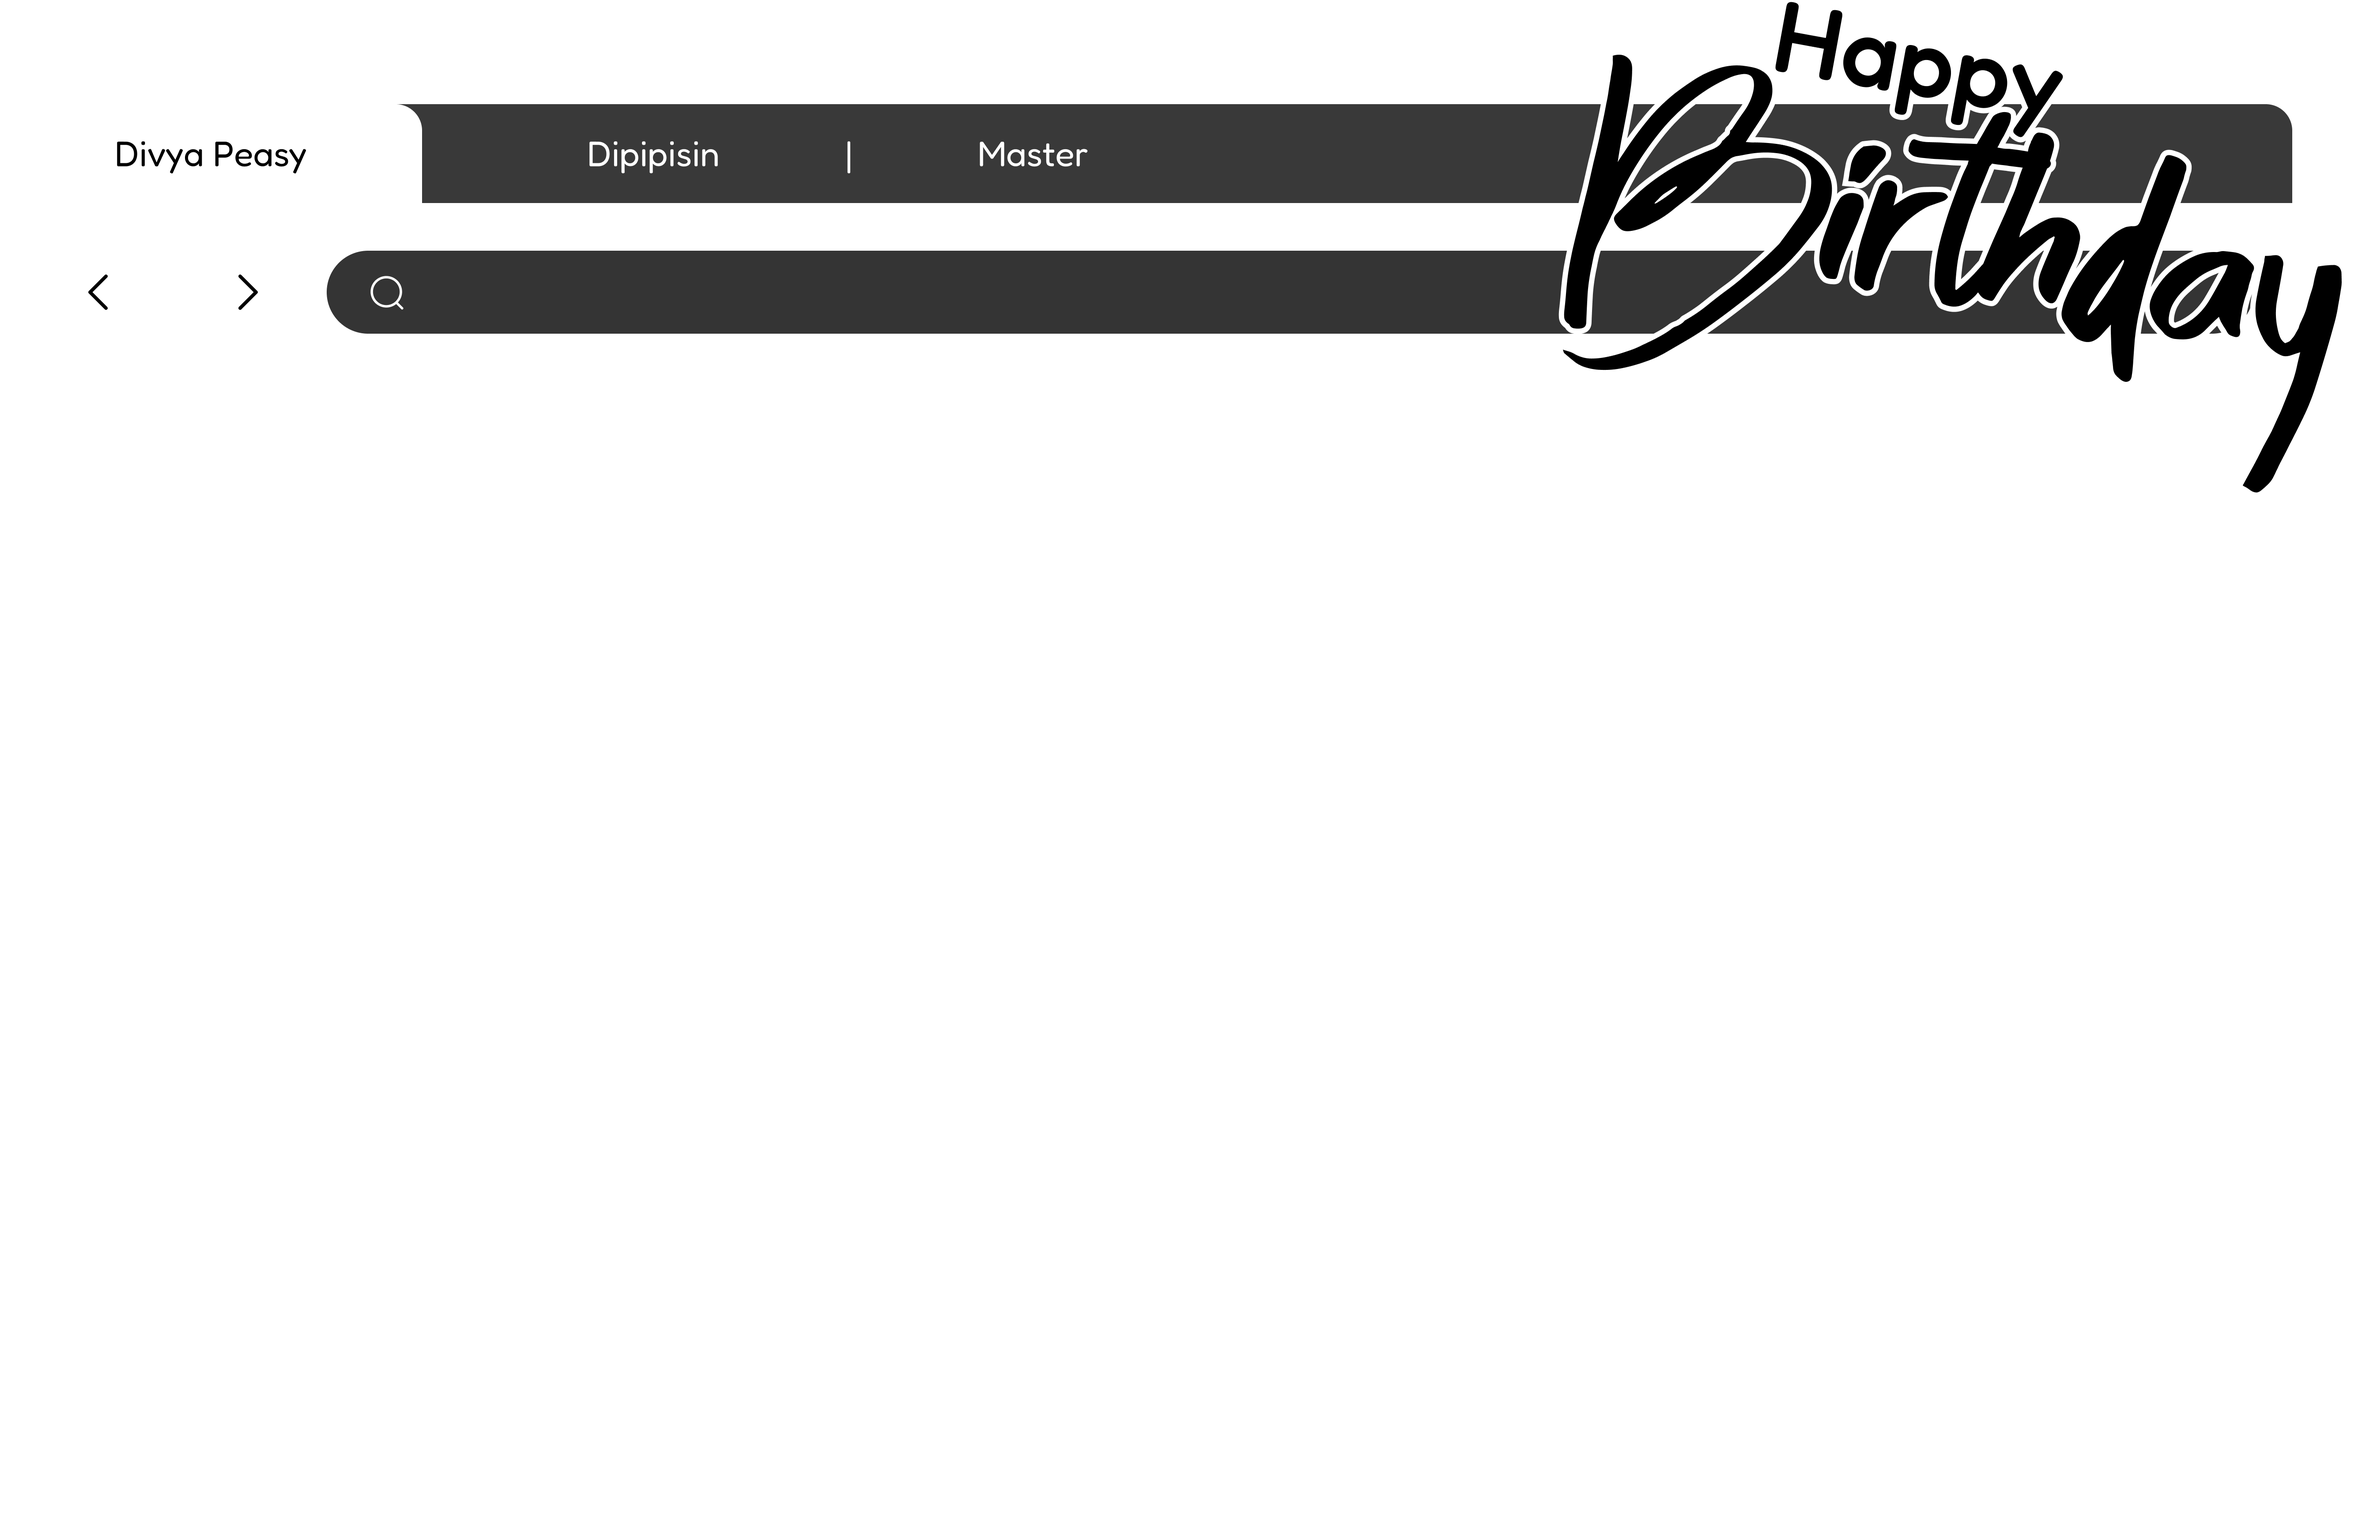
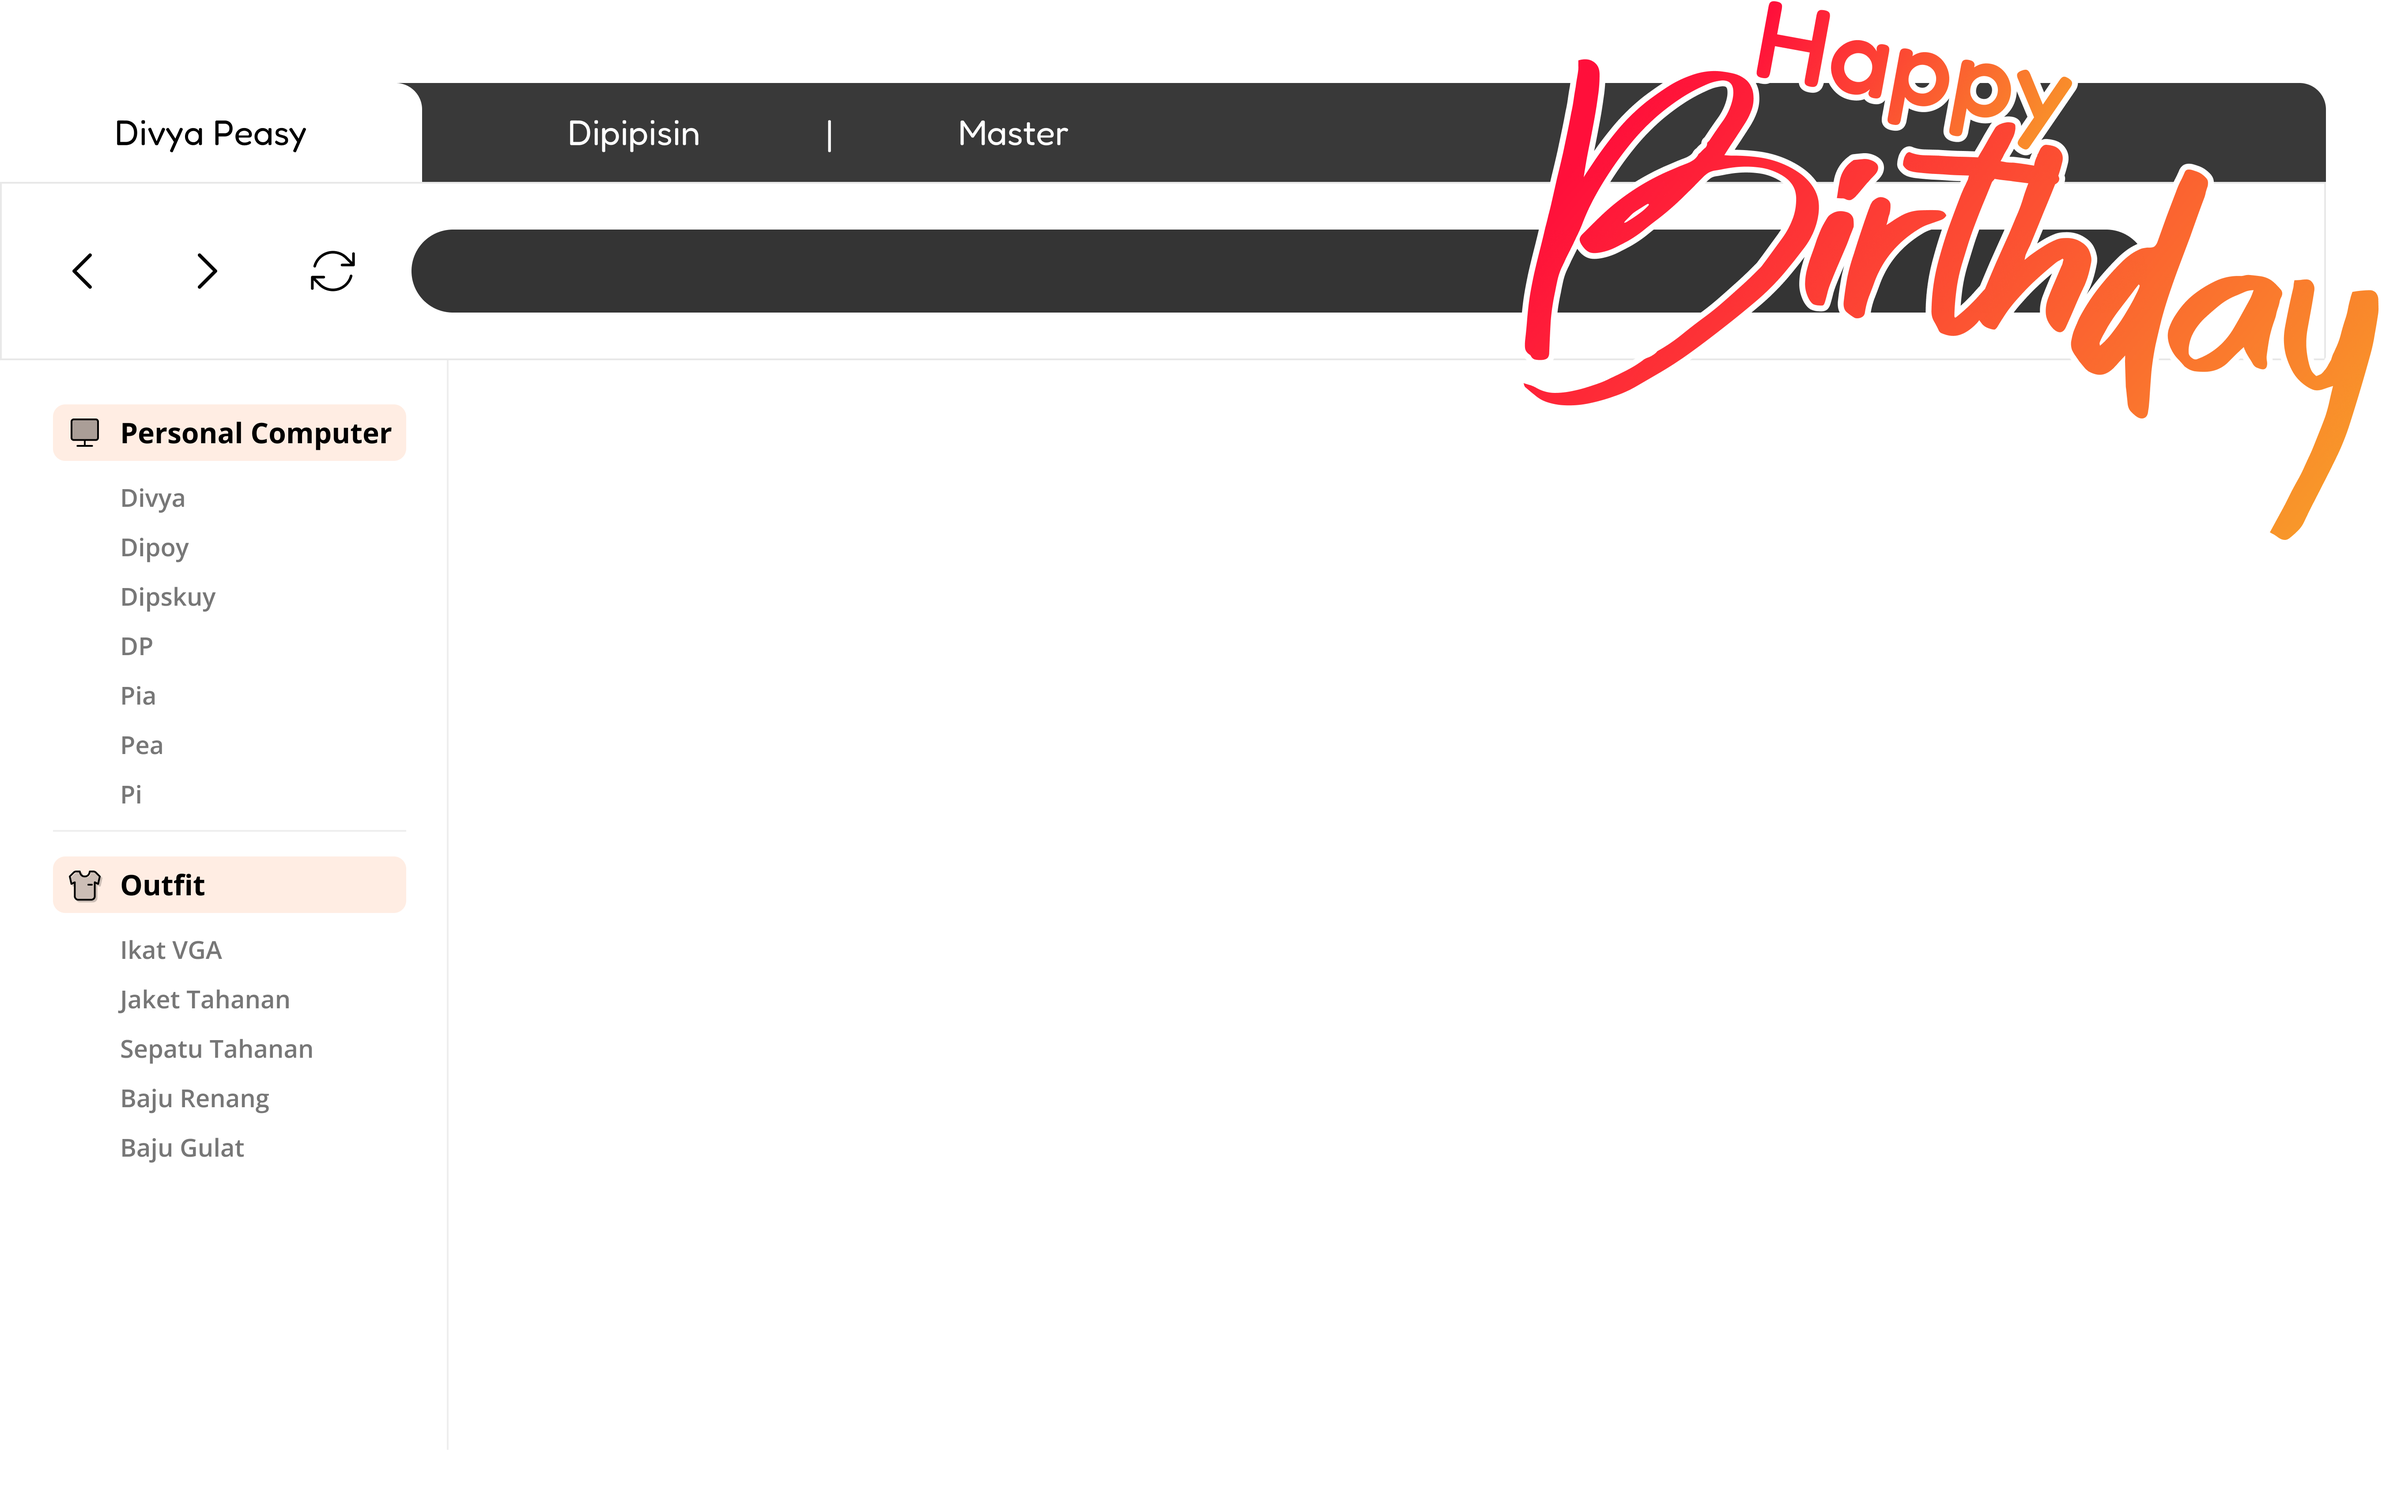
new design

diff --git a/Style.css b/Style.css
@@ -17,8 +17,12 @@
     height: 45vh;
     border-radius: 14px;
     position: relative;
-    top: 80;
+    margin: auto; /* Menempatkan video di tengah horizontal */
+    top: 30%; /* Memindahkan video ke tengah vertikal */
+    transform: translateY(-50%); /* Menggeser video ke atas sejauh setengah dari tingginya */
+    box-shadow: 0 0 0 3px rgb(255, 95, 55); /* Menambahkan outline stroke warna hitam */
 }
+
 
 .image {
     height: 90vh;

diff --git a/index.html b/index.html
@@ -5,7 +5,7 @@
     </head>
     <body class="body">
         <div class="container">
-            <img src="Frame 427319179.png" class="image" style="width: auto;" />
+            <img src="Container.png" class="image" style="width: auto;" />
                 <video controls src="SKV-AyaHito_M10-Nov.mp4" class="video"></video>
         </div>
         </div>
